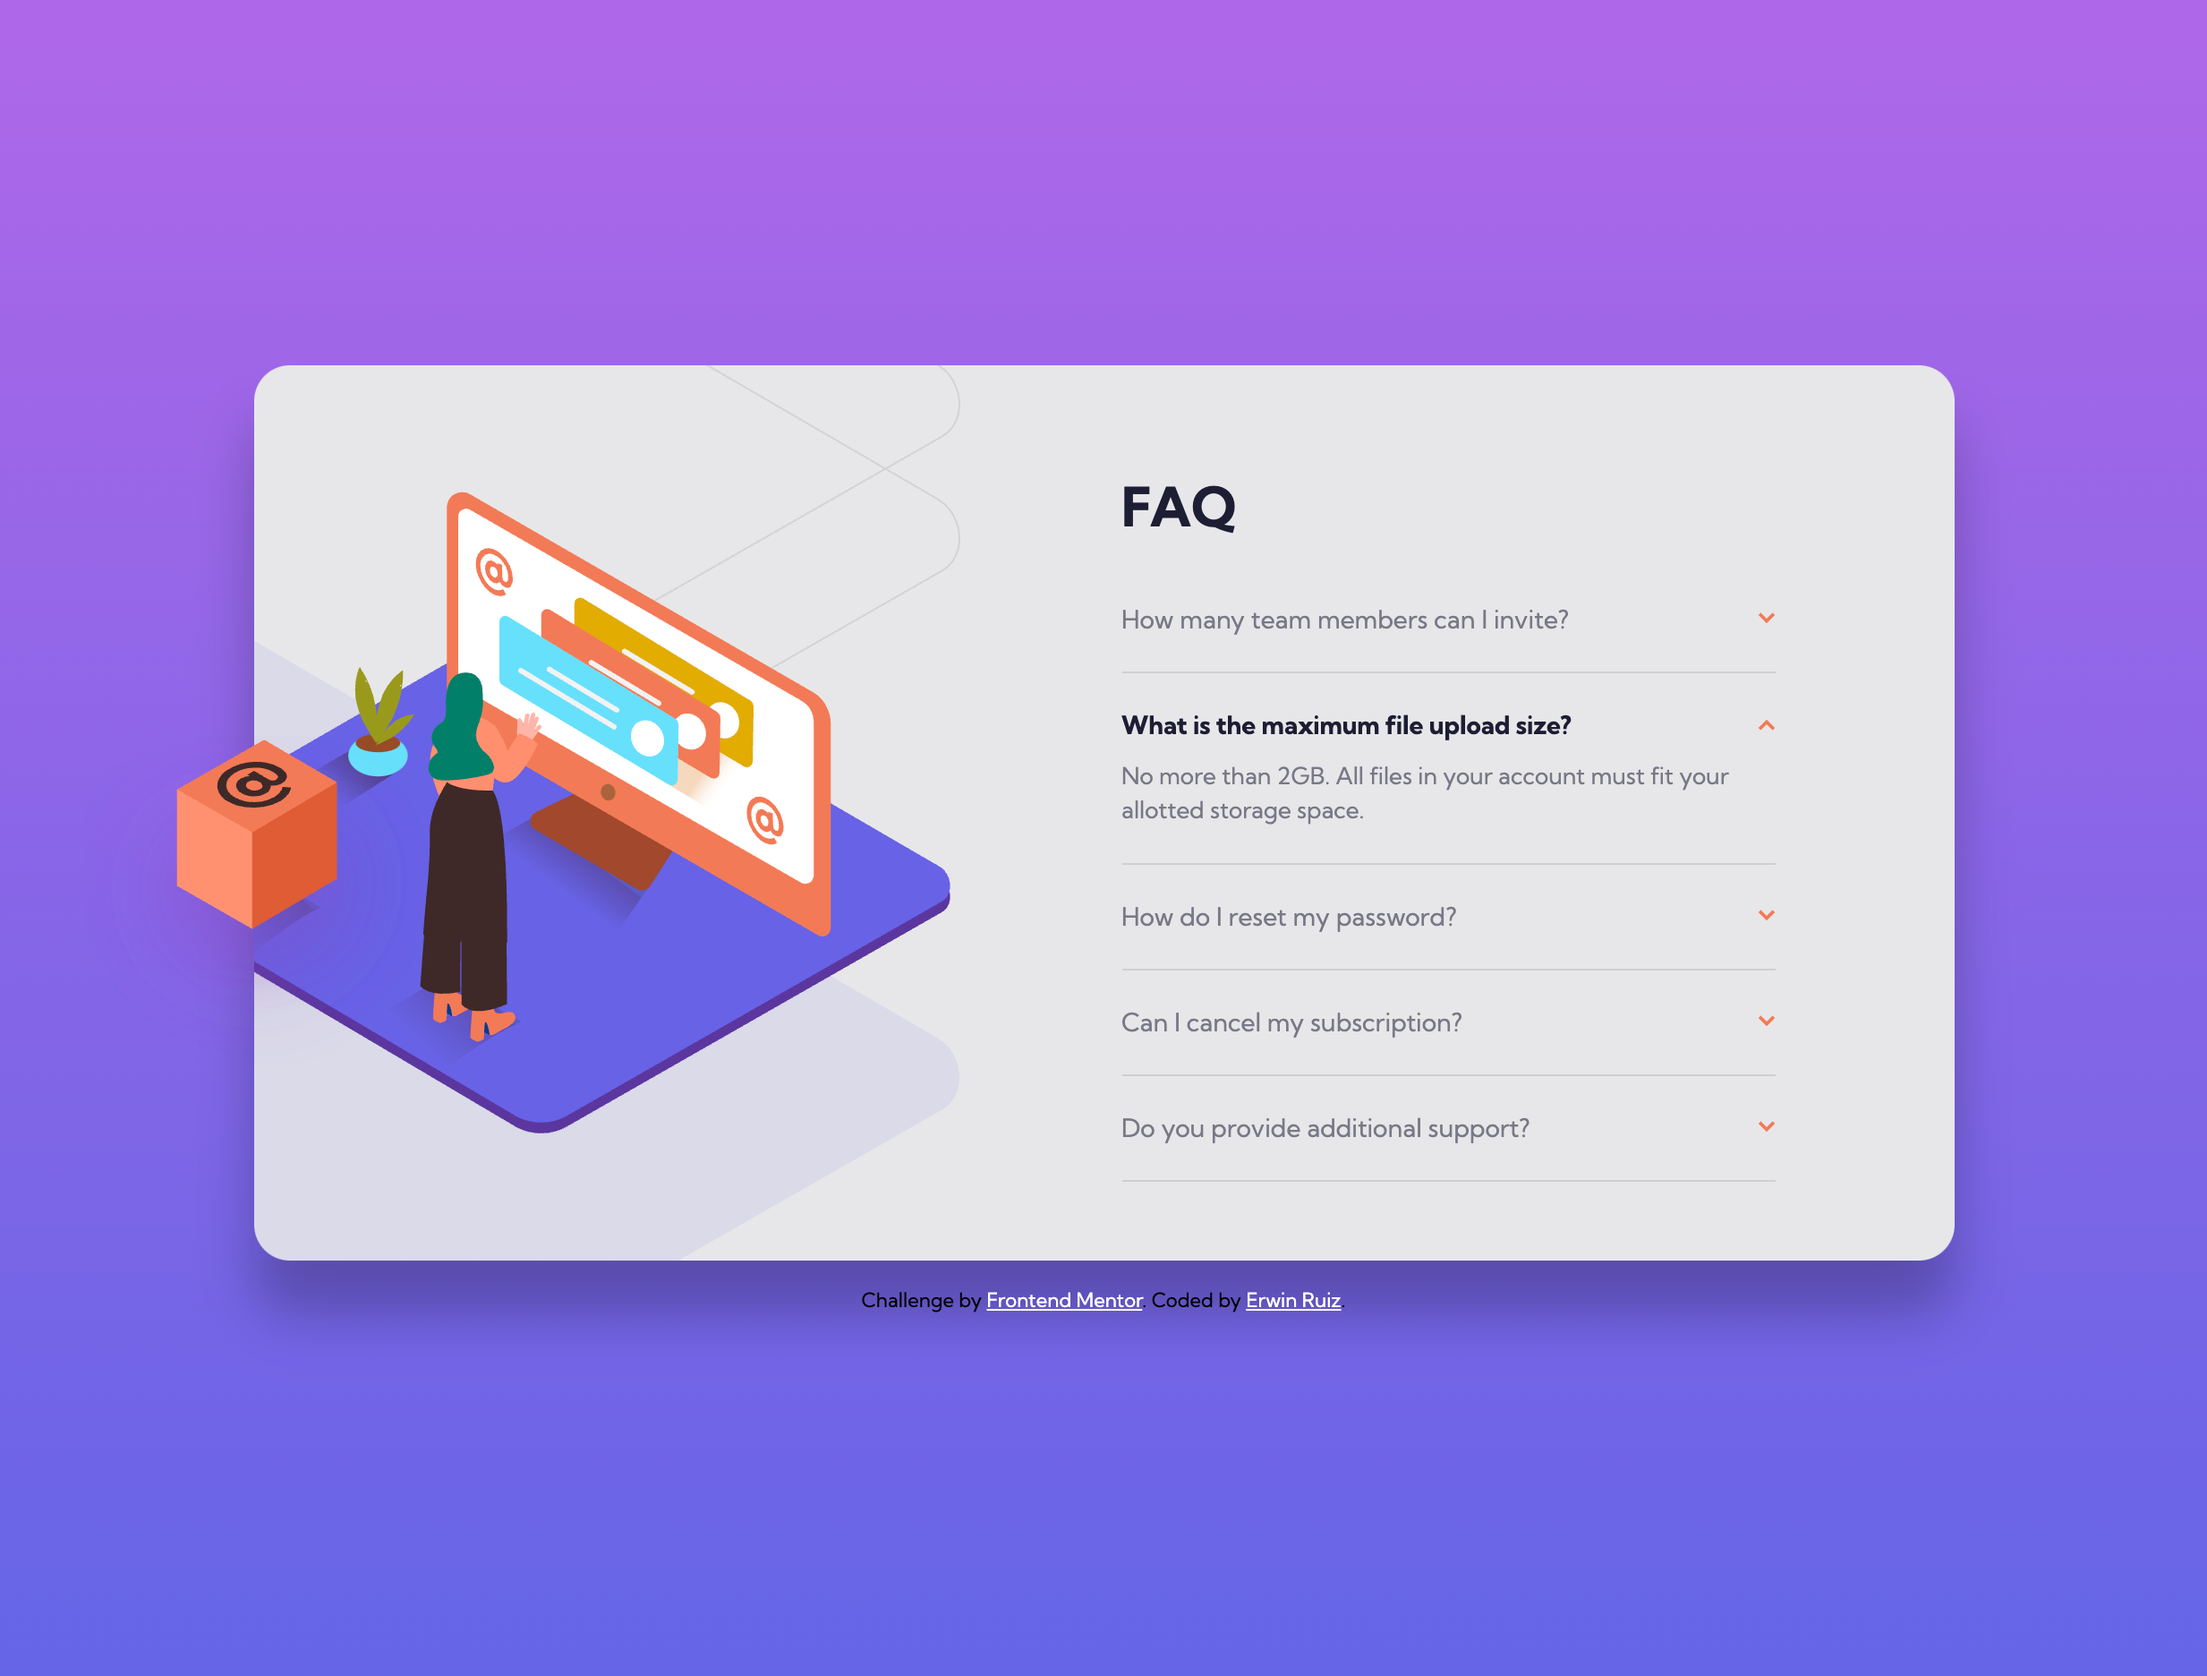
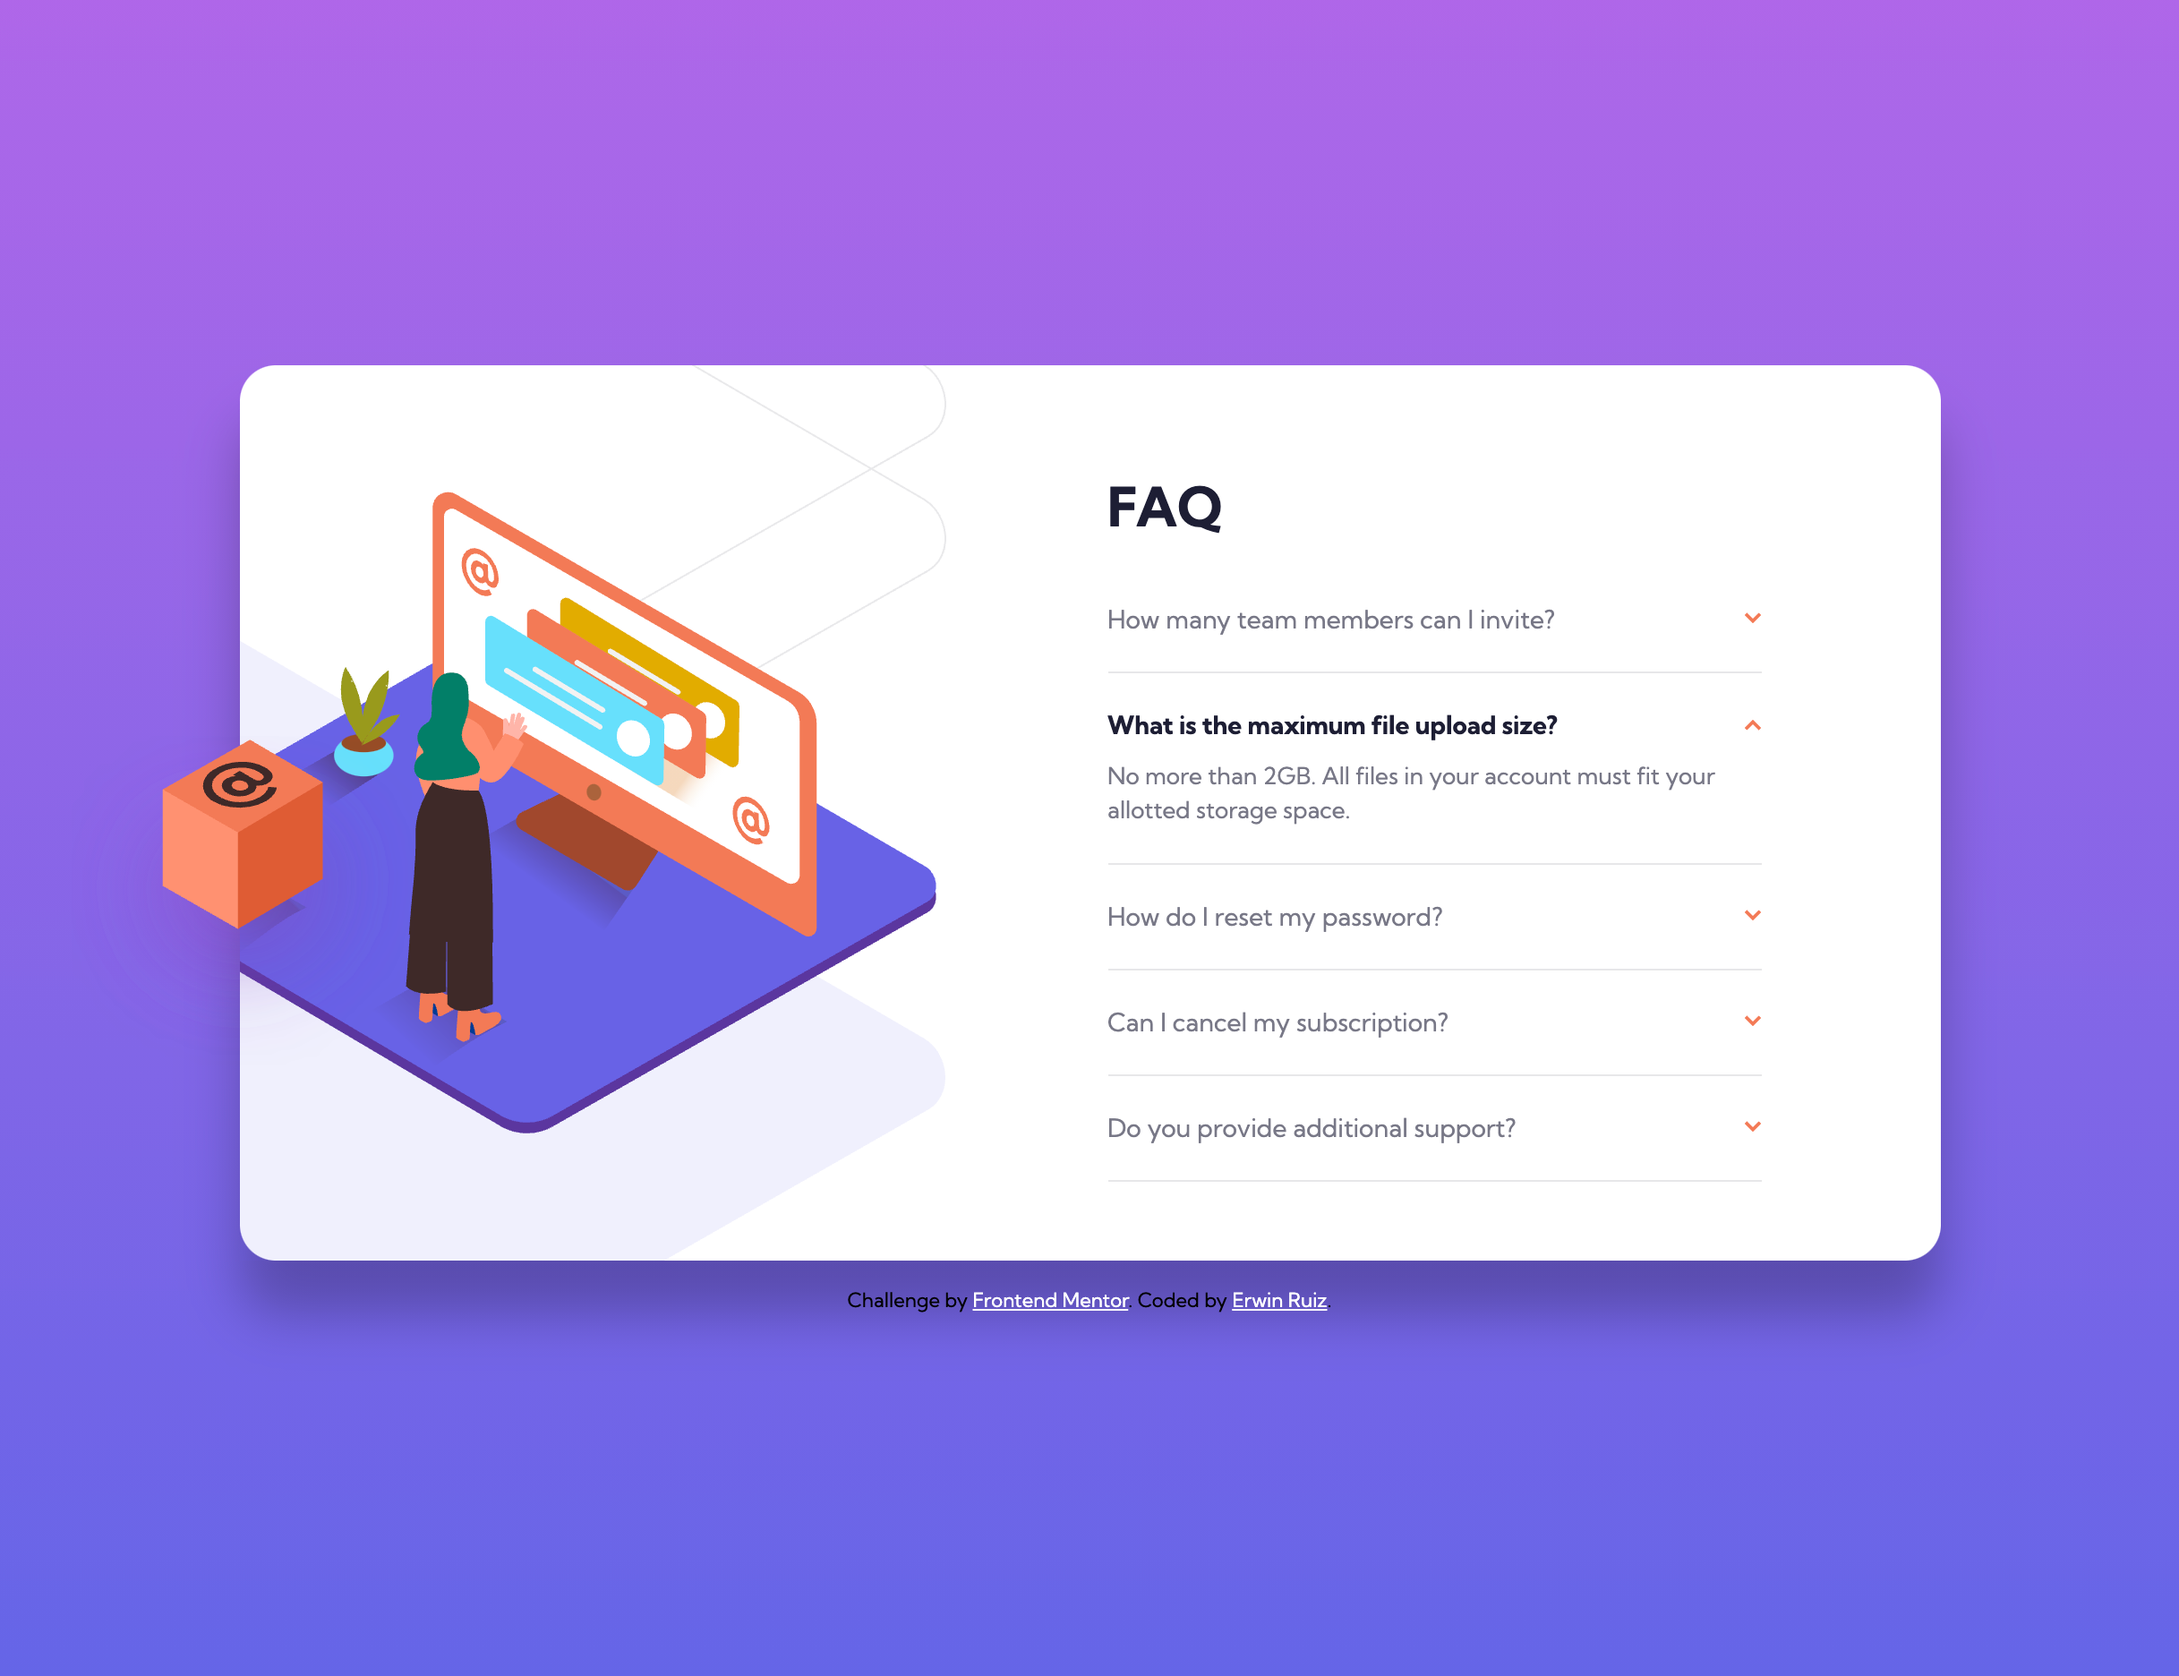
Fix background color of section and border color of dividers

diff --git a/styles.css b/styles.css
@@ -20,7 +20,7 @@ body {
   font-family: "Kumbh Sans", sans-serif;
 }
 section {
-  background-color: hsl(240, 5%, 91%);
+  background-color: white;
   width: 340px;
   height: 590px;
   border-radius: 20px;
@@ -58,7 +58,7 @@ section .questions h1 {
   color: hsl(238, 29%, 16%);
 }
 section .question {
-  border-bottom: 1px solid hsla(240, 6%, 50%, 0.219);
+  border-bottom: 1px solid hsl(240, 5%, 91%);
   cursor: pointer;
   padding: 20px 0;
 }
